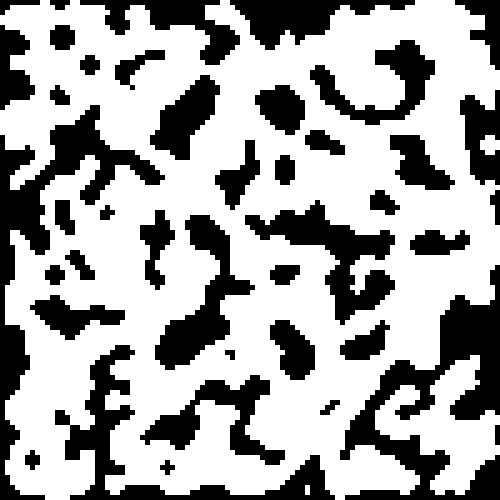
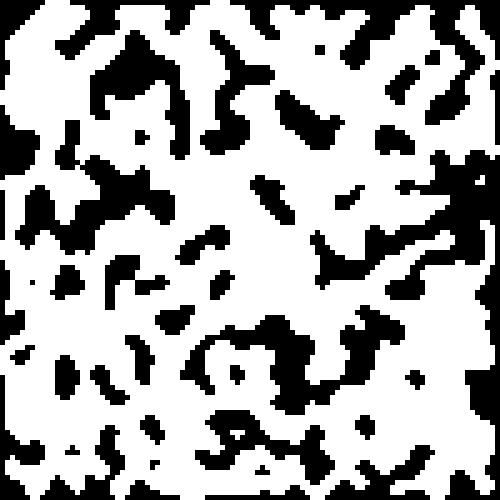
update README

diff --git a/README.md b/README.md
@@ -23,9 +23,17 @@ go run main.go bsp -H 100 -W 100 --seed 1 --depth 6 -o examples/bsp-1.jpeg
 ### Cellular Automata
 
 ```shell
-go run main.go ca -H 100 -W 100 --iter 5 --density 55 -o examples/ca.jpeg
+go run main.go ca -H 100 -W 100 --iter 5 --density 55 --seed 10 -o examples/ca.jpeg
+# exclude island of which area under <min-area> 
+go run main.go ca -H 100 -W 100 --iter 5 --density 55 --seed 10 --min-area 10 -o examples/ca-1.jpeg
 ```
 
 **examples:**
 
+without `--min-area`:
+
 ![ca](examples/ca.jpeg)
+
+with `--min-area`:
+
+![ca-1](examples/ca-1.jpeg)
